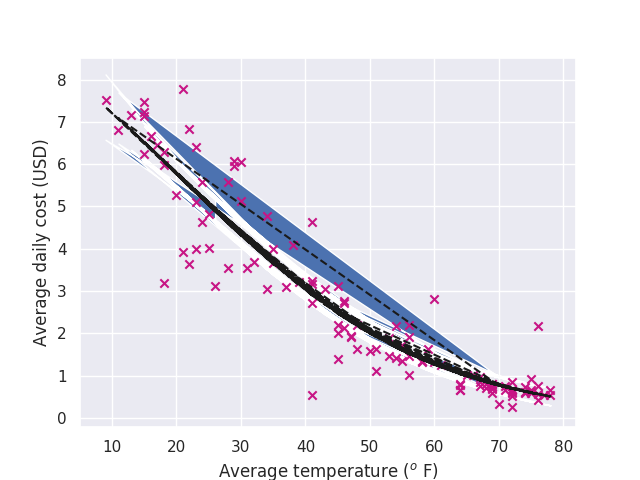
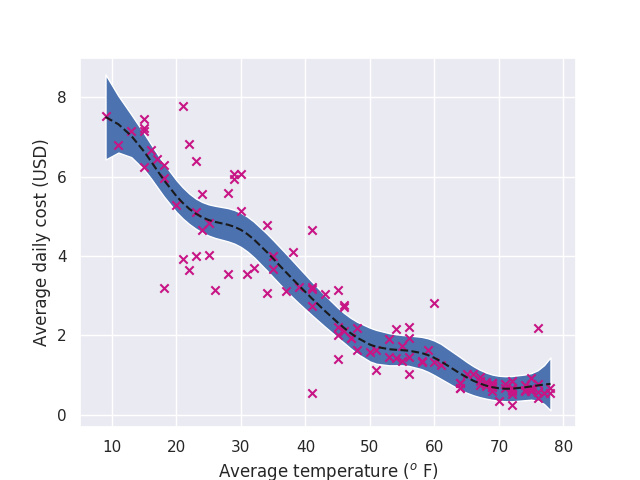
added contour plot

diff --git a/exercises_03/spatial_smoother.py b/exercises_03/spatial_smoother.py
@@ -6,8 +6,10 @@ import pdb
 from methods import *
 import seaborn as sns
 from tqdm import tqdm
+import matplotlib
 
 df = pd.read_csv('utilities.csv')
+df = df.sort_values('temp').reset_index()
 x = np.array(df['temp'].copy()).astype(float)
 y = np.array(df['gasbill']/df['billingdays'])
 sigma_2 = 1
@@ -31,9 +33,10 @@ plt.scatter(x,y,marker='x', color='mediumvioletred')
 plt.xlabel('Average temperature ($^o$ F)')
 plt.ylabel('Average daily cost (USD)')
 plt.savefig('confidence_band')
+plt.show()
 plt.close()
 
-n = 10
+n =20 
 b_vec = np.linspace(40,80,n)
 tau_vec = np.linspace(20,80,n)
 p = np.zeros((n,n))
@@ -41,5 +44,22 @@ for i,b in tqdm(enumerate(b_vec)):
     for j,tau in enumerate(tau_vec):
         p[i,j] = log_likelihood(x, y, sigma_2, b, tau)
 
-pdb.set_trace()
+#Then making the plot
+fig,ax = plt.subplots()
+cs = plt.contour(tau_vec, b_vec, p)
+norm= matplotlib.colors.Normalize(vmin=cs.cvalues.min(), vmax=cs.cvalues.max())
+sm = plt.cm.ScalarMappable(norm=norm, cmap = cs.cmap)
+sm.set_array([])
+cb = fig.colorbar(sm, ticks=cs.levels)
+cb.set_label('log likelihood')
+ax.set_xlabel(r'$\tau_1^2$')
+ax.set_ylabel('b')
+plt.savefig('contour')
+
+#Printing the optimal values
+print('optimal tau_1^2 is: '+ str(tau_vec[np.argwhere(p==np.max(p))[0][1]]))
+print('optimal b is: '+ str(b_vec[np.argwhere(p==np.max(p))[0][0]]))
+
+
+
 

diff --git a/exercises_03/methods.py b/exercises_03/methods.py
@@ -332,10 +332,10 @@ def gp_predict(x_data, y_data, x_pred,sigma_2, b,tau_sq1, tau_sq2, prior_mean = 
     w=C_21@np.linalg.inv((C_11 + np.eye(len(x_data))*sigma_2))
     #finally calculate the predicted y values
     y_pred = w@y_data
-    cov=C_22 - C_21@np.linalg.inv(C_11+np.eye(len(x_data))*sigma_2)@np.transpose(C_12)
+    cov=C_22 - C_21@np.linalg.inv(C_11+np.eye(len(x_data))*sigma_2)@np.transpose(C_21)
     return y_pred, cov
 
-def log_likelihood(x_data, y_data, sigma_2, b, tau_sq1, tau_sq2 = 0.0, cov_fun=matern52):
+def log_likelihood(x_data, y_data, sigma_2, b, tau_sq1, tau_sq2 = 0.0, cov_fun=matern):
     """
     Returns a quantity that is proportional to the log likelihood for a Gaussian process
     Used to determine hyperparameters for the matern covariance functions
@@ -364,8 +364,6 @@ def log_likelihood(x_data, y_data, sigma_2, b, tau_sq1, tau_sq2 = 0.0, cov_fun=m
     """
     #First evaluate the covariance matrix:
     C = cov_fun(x_data,b,tau_sq1, tau_sq2)
-    C2 = matern_52(x_data,x_data,[b,tau_sq1,tau_sq2])
-    pdb.set_trace()
     p = multivariate_normal.logpdf(y_data, np.zeros(len(y_data)), sigma_2*np.eye(len(y_data))+C)
     return p
 
